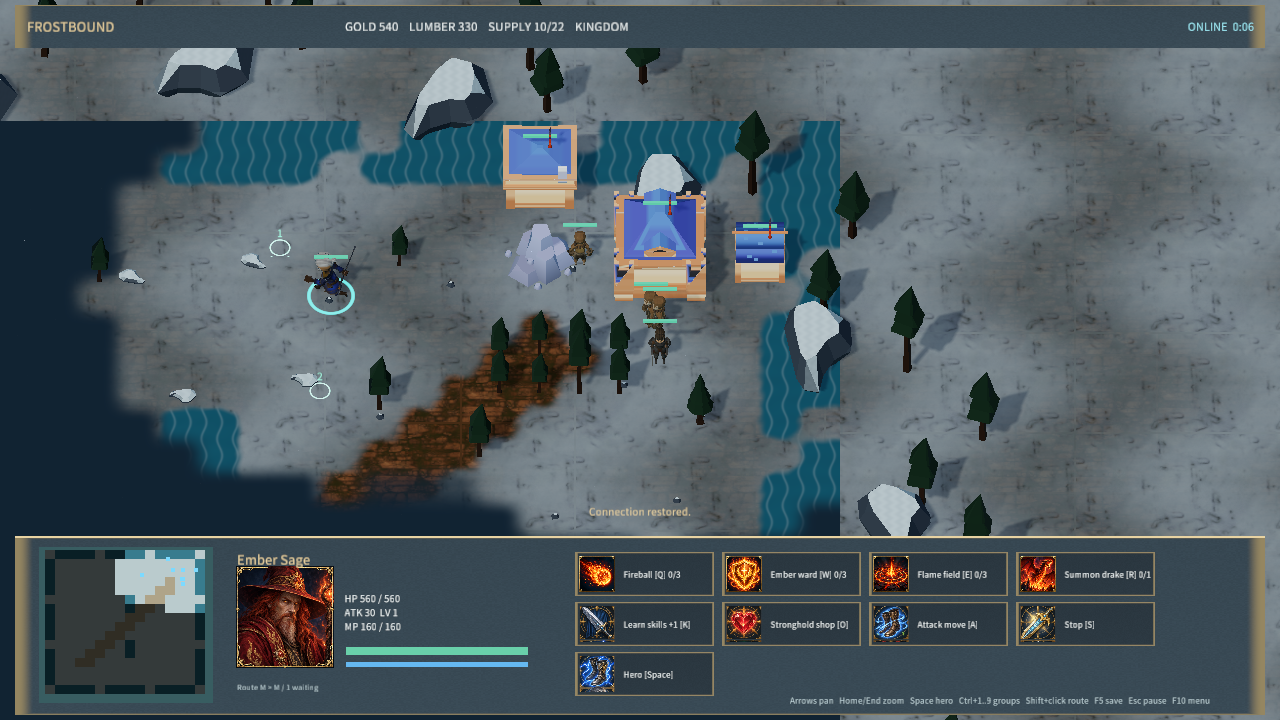
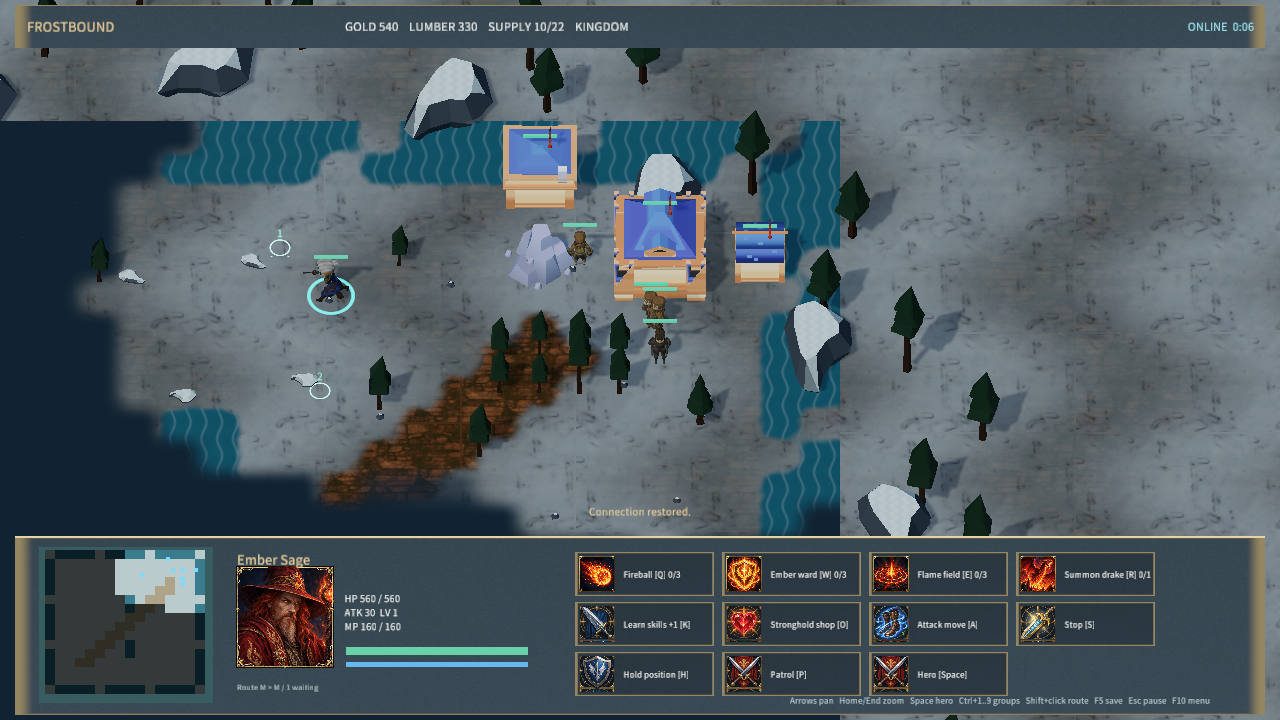
feat(frostbound): add hold position and persistent patrol orders

diff --git a/samples/frostbound-realms/game/client.js b/samples/frostbound-realms/game/client.js
@@ -120,7 +120,7 @@ var FrostClient=(()=>{
     const u=state.units.find(u=>selected.includes(u.id)&&u.team===team&&u.hp>0);if(!u)return;
     if(u.built<1){add('Cancel / 75% refund',()=>order({type:'cancelBuild'}));return;}
     if(u.kind==='worker'){
-      for(const [kind,key] of (state.mode==='td'?[['tower','T'],['frosttower','G'],['flametower','H']]:[['hall','C'],['farm','F'],['barracks','B'],['tower','T'],['altar','L'],['workshop','J']]))add(FrostVisual.name(state,{kind,team})+' ['+key+']',()=>{armed={type:'build',kind};message('Choose a site within 15 units of the worker');},'Cost: '+S.types[kind].gold+' gold / '+(state.mode==='td'?0:S.types[kind].wood)+' lumber',FrostVisual.model(state,{kind,team}).asset.factionBuilding?'building:'+FrostVisual.model(state,{kind,team}).key:'tower');
+      for(const [kind,key] of (state.mode==='td'?[['tower','T'],['frosttower','G'],['flametower','Y']]:[['hall','C'],['farm','F'],['barracks','B'],['tower','T'],['altar','L'],['workshop','J']]))add(FrostVisual.name(state,{kind,team})+' ['+key+']',()=>{armed={type:'build',kind};message('Choose a site within 15 units of the worker');},'Cost: '+S.types[kind].gold+' gold / '+(state.mode==='td'?0:S.types[kind].wood)+' lumber',FrostVisual.model(state,{kind,team}).asset.factionBuilding?'building:'+FrostVisual.model(state,{kind,team}).key:'tower');
       add('Repair / assist [R]',()=>{armed={type:'repair'};message('Choose a friendly building to repair or finish');});
     }else if(S.types[u.kind].model==='tower'){add('Upgrade '+(100*u.level),()=>order({type:'towerUpgrade'}));if(state.mode==='td')add('Sell / 65%',()=>order({type:'sell'}));
     }else if(u.kind==='hero'){
@@ -131,7 +131,7 @@ var FrostClient=(()=>{
       for(const kind of S.trainable(state,u))add(S.types[kind].label+' '+S.types[kind].gold,()=>order({type:'train',kind}));if(u.kind==='barracks')add('Weapons +6 [U]',()=>order({type:'upgrade'}));if(u.kind==='hall')add('Advance tier [U]',()=>order({type:'tech'}));
     }
     if(S.trainable(state,u).length){add('Rally point',()=>armed={type:'rally'});if(u.queue.length)add('Cancel last / refund',()=>order({type:'cancelTrain',index:u.queue.length-1}));}
-    add('Attack move [A]',()=>armed={type:'attackMove'},'Move and engage enemies. Hold Shift when choosing a target to append a waypoint.');add('Stop [S]',()=>order({type:'stop'}));add('Hero [Space]',selectHero);
+    add('Attack move [A]',()=>armed={type:'attackMove'},'Move and engage enemies. Hold Shift when choosing a target to append a waypoint.');add('Stop [S]',()=>{armed=null;order({type:'stop'});});if(u.speed){add('Hold position [H]',()=>{armed=null;order({type:'hold'});},'Stay here and attack only enemies in range. Replaces the current route.','shield');add('Patrol [P]',()=>armed={type:'patrol'},'Choose the other end of a repeating patrol. Engage enemies, then continue the route.','attack');}add('Hero [Space]',selectHero);
   }
   function controls(input,dt){
     const press=k=>input.pressedKeys.includes(k),held=k=>input.keys.includes(k),p=screenPointer(input),w=worldPointer(input);updateActions();
@@ -159,10 +159,10 @@ var FrostClient=(()=>{
         if(press('PageUp'))editMap.waves=S.clamp(editMap.waves+1,3,30);if(press('PageDown'))editMap.waves=S.clamp(editMap.waves-1,3,30);if(press('KeyN')&&![2,4].includes(editorPage))slot=slot%3+1;
       }else if(!paused){
         if(press('F5')){if(online)message('Network matches are saved on the server during reconnect');else persist('quicksave',state);}
-        if(press('Space'))selectHero();if(press('KeyA'))armed={type:'attackMove'};if(press('KeyS'))order({type:'stop'});
+        if(press('Space'))selectHero();if(press('KeyA'))armed={type:'attackMove'};if(press('KeyS')){armed=null;order({type:'stop'});}if(press('KeyH')){armed=null;order({type:'hold'});}if(press('KeyP'))armed={type:'patrol'};
         const u=state.units.find(u=>selected.includes(u.id)&&u.team===team);
         if(u?.kind==='hero'){if(press('KeyK'))heroPanel=heroPanel==='learn'?'skills':'learn';if(press('KeyO'))heroPanel=heroPanel==='shop'?'skills':'shop';for(const [i,k] of ['KeyQ','KeyW','KeyE','KeyR'].entries())if(press(k)){if(held('ShiftLeft')||held('ShiftRight')||heroPanel==='learn')order({type:'learn',slot:i});else if(S.unitType(u).spells[i].range===0)order({type:'spell',slot:i,x:u.x,z:u.z});else armed={type:'spell',slot:i};}}
-        if(u?.kind==='worker')for(const [k,kind] of [['KeyC','hall'],['KeyF','farm'],['KeyB','barracks'],['KeyT','tower'],['KeyL','altar'],['KeyG','frosttower'],['KeyH','flametower'],['KeyJ','workshop']])if(press(k))armed={type:'build',kind};
+        if(u?.kind==='worker')for(const [k,kind] of [['KeyC','hall'],['KeyF','farm'],['KeyB','barracks'],['KeyT','tower'],['KeyL','altar'],['KeyG','frosttower'],['KeyY','flametower'],['KeyJ','workshop']])if(press(k))armed={type:'build',kind};
         if(u?.kind==='worker'&&press('KeyR'))armed={type:'repair'};
         if(press('KeyU'))order({type:u?.kind==='hall'?'tech':'upgrade'});
         for(let i=1;i<=9;i++)if(press('Digit'+i)){if(held('ControlLeft'))groups[i]=[...selected];else selected=[...(groups[i]||[])];}
@@ -227,9 +227,9 @@ var FrostClient=(()=>{
     const markers=editing?map.triggers:state.loot||[];for(let i=0;i<32;i++){const m=markers[i];transform('Objective '+i,m&&(editing||state.explored[team]?.[S.index(m.x,m.z)])?[m.x,S.elevation(map,m.x,m.z)+.4+Math.sin(time*2)*.15,m.z]:hidden,[.8,.8,.8],[0,Math.sin(time/2),0,Math.cos(time/2)]);}
     label('Objective text',editing?'[V] '+['Terrain & objects','Units — click ground to place','Triggers / Setup, Conditions, Actions / N name or text / F8 Supply Road','Players & data','Regions / click to select, place, resize or move / N name','Elevation / choose height then ramp direction / F9 Highland Pass'][editorPage]:state.mode==='rpg'?'QUEST '+(state.quest.stage+1)+'/4: '+(S.questNames[state.quest.stage]||'Covenant restored')+(state.quest.stage===0?' ('+state.quest.scouts+'/3)':''):state.announcements?.[team]||state.announcement||'');show('Objective text',world);
     const t=state.teams[team],pop=S.population(state,team),u=state.units.find(u=>selected.includes(u.id));
-    const route=playing&&u?.team===team&&['move','attackMove'].includes(u.order?.type)?[u.order,...(u.waypoints||[])]:[];
+    const route=playing&&u?.team===team?(u.order?.type==='patrol'?[u.order,{type:'patrol',x:u.order.fromX,z:u.order.fromZ}]:['move','attackMove'].includes(u.order?.type)?[u.order,...(u.waypoints||[])]:[]):[];
     for(let i=0;i<9;i++){
-      const p=route[i],color=p?.type==='attackMove'?[1,.4,.25,1]:[.4,1,.8,1];transform('Waypoint '+i,p?[p.x,S.elevation(map,p.x,p.z)+.07,p.z]:hidden,[1.1,.015,1.1]);if(!p)show('Waypoint label '+i,false);
+      const p=route[i],color=p?.type==='patrol'?[.55,.75,1,1]:p?.type==='attackMove'?[1,.4,.25,1]:[.4,1,.8,1];transform('Waypoint '+i,p?[p.x,S.elevation(map,p.x,p.z)+.07,p.z]:hidden,[1.1,.015,1.1]);if(!p)show('Waypoint label '+i,false);
       if(p){set('Waypoint '+i,'MaterialPropertyBlock',{override_base_color:true,base_color:color});const screen=screenWorld({kind:u.kind,team:u.team,...p,y:S.elevation(map,p.x,p.z)},input),r=authored['Waypoint label '+i].RectTransform;show('Waypoint label '+i,Math.abs(screen.x)<626&&screen.y>-290&&screen.y<165);set('Waypoint label '+i,'RectTransform',{...r,anchored_position:[screen.x,screen.y-16]});label('Waypoint label '+i,String(i+1),color);}
     }
 
@@ -238,7 +238,7 @@ var FrostClient=(()=>{
     transform('Rally marker',world&&u?.rally?[u.rally.x,S.elevation(map,u.rally.x,u.rally.z)+.2,u.rally.z]:hidden,[2,2,2]);
     label('Selection title',editing?(editorPage===2?(map.triggers[triggerIndex]?.name||'TRIGGER EDITOR'):editorPage===4?(map.regions[regionIndex]?.name||'REGION EDITOR'):'WORLD EDITOR'):selected.length>1?selected.length+' units selected':u?FrostVisual.name(state,u):'Your command awaits');
     label('Selection stats',editing?(editorPage===5?'Height '+heightBrush+' / '+(heightBrush*2)+' world units\n'+(rampBrush?'Ramp '+['','East','West','South','North'][rampBrush]:'Level ground')+'\nF9 Highland Pass / F7 play':editorPage===2&&map.triggers[triggerIndex]?map.triggers[triggerIndex].conditions.length+' conditions / '+map.triggers[triggerIndex].logic+'\n'+map.triggers[triggerIndex].actions.length+' actions / '+map.triggers[triggerIndex].limit+' runs\n'+(map.triggers[triggerIndex].after<0?'No prerequisite':'After #'+(map.triggers[triggerIndex].after+1)):editorPage===4&&map.regions[regionIndex]?'Width '+map.regions[regionIndex].width+' / Height '+map.regions[regionIndex].height+'\nCenter '+map.regions[regionIndex].x+', '+map.regions[regionIndex].z:'Gold '+map.startingGold+' [+ / -]\nWaves '+map.waves+' [PgUp / PgDn]\nInterval '+map.waveInterval+'s [[ / ]]'):u?'HP '+Math.ceil(u.hp)+' / '+Math.ceil(u.maxHp)+'\nATK '+Math.round(u.damage)+'  '+(u.kind==='hero'?'LV '+u.level+'\nMP '+Math.floor(u.mana)+' / '+(150+u.level*10):S.types[u.kind].attack+' / '+S.types[u.kind].armor+'\n'+(S.types[u.kind].flying?'Flying / ':'' )+(S.types[u.kind].antiAir?'Ground + air':'Ground only')):'Left click / drag to select\nRight click to move or attack\nWorkers gather from mines and trees');
-    label('Selection queue',editing?'Regions '+map.regions.length+' / Triggers '+map.triggers.length+' / Page '+(editorPage+1)+'/6\nUndo Ctrl+Z / Save F5 / Play F7':route.length?'Route '+route.map(p=>p.type==='attackMove'?'A':'M').join(' > ')+' / '+(route.length-1)+' waiting':u?.built<1?'Building '+Math.floor(u.built*100)+'% / '+({work:'Workers required',inside:'Worker stationed',growth:'Living growth',summon:'Summoning',legacy:'Construction'}[u.construction?.style]||'Construction'):u?.kind==='hall'?'Stronghold tier '+t.tier+(t.research>0?' / upgrading '+Math.ceil(t.research)+'s':''):u?.queue.length?'Training: '+u.queue.map(q=>q.kind+' '+Math.ceil(q.left)+'s').join(', '):u?.kind==='hero'?'XP '+u.xp+'/'+(u.level*90)+' / Skill points '+u.skillPoints:u?.inventory.length?'Items: '+u.inventory.map(i=>S.items[i].name).join(', '):u?.built<1?'Building '+Math.floor(u.built*100)+'%':'');
+    label('Selection queue',editing?'Regions '+map.regions.length+' / Triggers '+map.triggers.length+' / Page '+(editorPage+1)+'/6\nUndo Ctrl+Z / Save F5 / Play F7':u?.order?.type==='hold'?'Holding position / attacks in range':u?.order?.type==='patrol'?'Patrol / repeats between 1 and 2':route.length?'Route '+route.map(p=>p.type==='attackMove'?'A':'M').join(' > ')+' / '+(route.length-1)+' waiting':u?.built<1?'Building '+Math.floor(u.built*100)+'% / '+({work:'Workers required',inside:'Worker stationed',growth:'Living growth',summon:'Summoning',legacy:'Construction'}[u.construction?.style]||'Construction'):u?.kind==='hall'?'Stronghold tier '+t.tier+(t.research>0?' / upgrading '+Math.ceil(t.research)+'s':''):u?.queue.length?'Training: '+u.queue.map(q=>q.kind+' '+Math.ceil(q.left)+'s').join(', '):u?.kind==='hero'?'XP '+u.xp+'/'+(u.level*90)+' / Skill points '+u.skillPoints:u?.inventory.length?'Items: '+u.inventory.map(i=>S.items[i].name).join(', '):u?.built<1?'Building '+Math.floor(u.built*100)+'%':'');
     label('Controls',editing?'Paint LMB   /   F5 save   F6 load   F7 test   /   arrows pan   Home/End zoom':'Arrows pan   Home/End zoom   Space hero   Ctrl+1..9 groups   Shift+click route   F5 save   Esc pause   F10 menu');
     const icons=['frost','heal','blink','blizzard','blade','heart','boots','edge','storm','charm','attack','shield'];
     const pointer=screenPointer(input);let hint='';

diff --git a/samples/frostbound-realms/game/simulation.js b/samples/frostbound-realms/game/simulation.js
@@ -254,19 +254,19 @@ var Frost = (() => {
     if(s.winner!==null||!c||![0,1].includes(team))return 'Match is finished';
     if(c.append!==undefined&&typeof c.append!=='boolean'||c.append&&!['move','attackMove'].includes(c.type))return 'Only movement orders can be queued';
     const own=s.units.filter(u=>u.team===team&&u.hp>0&&!u.inside&&Array.isArray(c.ids)&&c.ids.slice(0,40).includes(u.id)),u=own[0],point=Number.isFinite(c.x)&&Number.isFinite(c.z)&&Math.abs(c.x)<=30&&Math.abs(c.z)<=30;
-    if(['move','attackMove','attack','gather','stop'].includes(c.type)){
-      if(['move','attackMove'].includes(c.type)&&!point)return 'Invalid destination';
+    if(['move','attackMove','patrol','hold','attack','gather','stop'].includes(c.type)){
+      if(['move','attackMove','patrol'].includes(c.type)&&!point)return 'Invalid destination';
       const target=s.units.find(v=>v.id===c.target&&v.hp>0);if(c.type==='attack'&&(!target||target.team===team||!isVisible(s,team,target)))return 'Target is not visible';
       if(c.type==='attack'&&!own.some(v=>canAttack(v,target)))return 'Selected units cannot attack this target';
       if(c.type==='gather'&&(!Number.isInteger(c.resource)||!s.resources[c.resource]||s.resources[c.resource].kind==='camp'))return 'Select a resource';
-      const moving=['move','attackMove'].includes(c.type),members=moving?own.filter(v=>v.speed&&v.built===1):own;
+      const moving=['move','attackMove','patrol'].includes(c.type),members=moving||c.type==='hold'?own.filter(v=>v.speed&&v.built===1):own;
       if(c.append&&members.some(v=>v.order&&!['move','attackMove'].includes(v.order.type)))return 'Issue a move before adding waypoints';
       if(c.append&&members.some(v=>(v.waypoints?.length||0)>=8))return 'Waypoint queue is full (8 waiting)';
       const slots=moving?formation(s,members,c.x,c.z,c.append):null;
       if(moving&&!slots)return 'No reachable space for this formation';
       members.forEach(v=>{
         if(c.type==='attack'&&!canAttack(v,target))return;
-        const next=c.type==='stop'?null:{type:c.type,x:slots?.get(v.id)?.[0]??0,z:slots?.get(v.id)?.[1]??0,...(c.type==='attack'?{target:c.target}:c.type==='gather'?{resource:c.resource}:{})};
+        const next=c.type==='stop'?null:{type:c.type,x:slots?.get(v.id)?.[0]??0,z:slots?.get(v.id)?.[1]??0,...(c.type==='attack'?{target:c.target}:c.type==='gather'?{resource:c.resource}:c.type==='patrol'?{fromX:clamp(v.x,-30,30),fromZ:clamp(v.z,-30,30)}:{})};
         if(c.append&&v.order){(v.waypoints??=[]).push(next);return;}
         delete v.workResume;v.path=[];v.pathAt=-100;v.waypoints=[];v.order=next;
       });return null;
@@ -357,6 +357,7 @@ var Frost = (() => {
   function segmentDistance(x,z,a,b){const dx=b[0]-a[0],dz=b[1]-a[1],t=clamp(((x-a[0])*dx+(z-a[1])*dz)/(dx*dx+dz*dz),0,1);return Math.hypot(x-a[0]-dx*t,z-a[1]-dz*t);}
   function equip(u,i){const item=items[i];u.inventory.push(i);u.damage+=item.damage||0;u.maxHp+=item.hp||0;u.hp=Math.min(u.maxHp,u.hp+(item.hp||0));u.speed+=item.speed||0;}
   function experience(h,xp){h.xp+=xp;while(h.xp>=h.level*90&&h.level<10){h.xp-=h.level*90;h.level++;h.skillPoints++;h.maxHp+=90;h.hp=Math.min(h.maxHp,h.hp+150);h.damage+=6;}}
+  function attackInRange(s,u,v){return Math.hypot(distance(u,v),unitHeight(s,u)-unitHeight(s,v))<=unitType(u).range+(types[v.kind].radius||.3)&&attackClear(s,u,v);}
   function damage(s,a,b,value){
     if(b.hp<=0||b.inside)return;if(b.avatar>0)value*=.6;const absorbed=Math.min(b.shield||0,value);b.shield=Math.max(0,(b.shield||0)-absorbed);value-=absorbed;if(value<=0)return;s.events.push({type:'damage',x:b.x,z:b.z,y:unitHeight(s,b),amount:Math.ceil(Math.min(b.hp,value)),team:b.team});b.hp-=value;
     if(types[a.kind].lifesteal)a.hp=Math.min(a.maxHp,a.hp+value*types[a.kind].lifesteal);
@@ -417,14 +418,14 @@ var Frost = (() => {
       if(u.td){const p=u.route[u.waypoint];if(!p){u.hp=0;s.lives-=u.tdBoss?5:1;if(s.lives<=0)s.winner=1;continue;}if(move(s,u,p[0],p[1],u.waypoint===u.route.length-1?4.5:1.3))u.waypoint++;continue;}
       let target=u.order?.type==='attack'?s.units.find(v=>v.id===u.order.target&&v.hp>0&&canAttack(u,v)&&isVisible(s,u.team,v)):null;
       if(u.order?.type==='attack'&&!target)u.order=null;
-      if(u.order?.type!=='move'&&u.damage>0&&!target){let best=Infinity;for(const v of s.units){if(v.team===u.team||v.hp<=0||!canAttack(u,v)||(u.team>=0&&!isVisible(s,u.team,v)))continue;const d=distance(u,v);if(d<best&&d<Math.max(unitType(u).range,8)){target=v;best=d;}}}
-      if(target){const range=unitType(u).range+(types[target.kind].radius||.3);if(Math.hypot(distance(u,target),unitHeight(s,u)-unitHeight(s,target))<=range&&attackClear(s,u,target)){if(u.cd<=0){damage(s,u,target,weaponDamage(u,target,u.damage*(u.avatar>0?1.6:1)+(s.teams[u.team]?.upgrade||0)*6));if(types[u.kind].splash)for(const v of s.units)if(v.id!==target.id&&v.team!==u.team&&v.hp>0&&canAttack(u,v)&&distance(v,target)<types[u.kind].splash)damage(s,u,v,weaponDamage(u,v,u.damage*.6));u.cd=unitType(u).cooldown||1;s.events.push({type:'hit',x:target.x,z:target.z,fromX:u.x,fromZ:u.z,fromY:unitHeight(s,u)+1.6,toY:unitHeight(s,target)+1.6,team:u.team,ranged:range>4});}}else move(s,u,target.x,target.z,range*.8);}
-      else if(u.order&&['move','attackMove'].includes(u.order.type)){
+      if(u.order?.type!=='move'&&u.damage>0&&!target){let best=Infinity;for(const v of s.units){if(v.team===u.team||v.hp<=0||!canAttack(u,v)||(u.team>=0&&!isVisible(s,u.team,v))||u.order?.type==='hold'&&!attackInRange(s,u,v))continue;const d=distance(u,v);if(d<best&&(u.order?.type==='hold'||d<Math.max(unitType(u).range,8))){target=v;best=d;}}}
+      if(target){const range=unitType(u).range+(types[target.kind].radius||.3);if(attackInRange(s,u,target)){if(u.cd<=0){damage(s,u,target,weaponDamage(u,target,u.damage*(u.avatar>0?1.6:1)+(s.teams[u.team]?.upgrade||0)*6));if(types[u.kind].splash)for(const v of s.units)if(v.id!==target.id&&v.team!==u.team&&v.hp>0&&canAttack(u,v)&&distance(v,target)<types[u.kind].splash)damage(s,u,v,weaponDamage(u,v,u.damage*.6));u.cd=unitType(u).cooldown||1;s.events.push({type:'hit',x:target.x,z:target.z,fromX:u.x,fromZ:u.z,fromY:unitHeight(s,u)+1.6,toY:unitHeight(s,target)+1.6,team:u.team,ranged:range>4});}}else if(u.order?.type!=='hold')move(s,u,target.x,target.z,range*.8);}
+      else if(u.order&&['move','attackMove','patrol'].includes(u.order.type)){
         if(!types[u.kind].flying&&solid(s,u.order.x,u.order.z,u.id,u.team)){const p=formation(s,[u],u.order.x,u.order.z)?.get(u.id);if(p){u.order.x=p[0];u.order.z=p[1];u.path=[];u.pathAt=-100;}}
-        if(move(s,u,u.order.x,u.order.z,.12)){u.order=u.waypoints?.shift()||null;u.path=[];u.pathAt=-100;}
+        if(move(s,u,u.order.x,u.order.z,.12)){if(u.order.type==='patrol'){const o=u.order;[o.x,o.z,o.fromX,o.fromZ]=[o.fromX,o.fromZ,o.x,o.z];}else u.order=u.waypoints?.shift()||null;u.path=[];u.pathAt=-100;}
       }
-      else if(u.route){const p=u.route[u.waypoint];if(p&&move(s,u,p[0],p[1],1.5))u.waypoint++;}
-      else if(u.home&&distance(u,{x:u.home[0],z:u.home[1]})>3)move(s,u,...u.home,2);
+      else if(!u.order&&u.route){const p=u.route[u.waypoint];if(p&&move(s,u,p[0],p[1],1.5))u.waypoint++;}
+      else if(!u.order&&u.home&&distance(u,{x:u.home[0],z:u.home[1]})>3)move(s,u,...u.home,2);
       if(u.kind==='hero'&&s.units.some(v=>v.team===u.team&&v.kind==='hall'&&v.hp>0&&v.built===1&&distance(u,v)<8))u.hp=Math.min(u.maxHp,u.hp+DT*12);
     }
     for(const zone of s.zones){zone.left-=DT;zone.pulse-=DT;if(zone.pulse<=0){zone.pulse+=1;for(const v of s.units)if(v.team!==zone.team&&v.hp>0&&distance(v,zone)<=zone.radius){damage(s,{kind:'hero',heroClass:zone.heroClass,team:zone.team},v,zone.damage);if(zone.slow)v.slow=zone.slow;}s.events.push({type:'spell',x:zone.x,z:zone.z,slot:zone.slot,heroClass:zone.heroClass,team:zone.team});}}s.zones=s.zones.filter(z=>z.left>0);
@@ -480,6 +481,7 @@ var Frost = (() => {
     if(s.teams.some(t=>!t||![t.gold,t.wood,t.faction,t.upgrade,t.kills].every(finite)||!Number.isInteger(t.faction)||t.faction<0||t.faction>3))throw Error('Invalid saved teams');
     const ids=new Set();for(const u of s.units){
       if(!u||!Object.hasOwn(types,u.kind)||![-1,0,1].includes(u.team)||!Number.isSafeInteger(u.id)||u.id<1||u.id>s.serial||ids.has(u.id)||![u.x,u.z,u.hp,u.maxHp,u.damage,u.speed,u.cd,u.built,u.level,u.xp,u.mana,u.cargo,u.respawn,u.pathAt].every(finite)||u.maxHp<=0||!Array.isArray(u.path)||u.path.length>1024||!u.path.every(point)||!Array.isArray(u.spell)||u.spell.length!==4||!u.spell.every(finite)||!Array.isArray(u.queue)||u.queue.length>3||u.queue.some(q=>!q||!Object.hasOwn(types,q.kind)||!finite(q.left))||!Array.isArray(u.inventory)||u.inventory.length>6||u.inventory.some(i=>!Number.isInteger(i)||!items[i])||u.route!==undefined&&(!Array.isArray(u.route)||!u.route.every(point))||u.home!==undefined&&!point(u.home))throw Error('Invalid saved units');ids.add(u.id);
+      if(u.order?.type==='patrol'&&(!types[u.kind].speed||![u.order.x,u.order.z,u.order.fromX,u.order.fromZ].every(v=>Number.isFinite(v)&&Math.abs(v)<=30))||u.order?.type==='hold'&&!types[u.kind].speed)throw Error('Invalid saved patrol or hold order');
       if(u.waypoints===undefined)u.waypoints=[];
       const waypoint=p=>p&&['move','attackMove'].includes(p.type)&&[p.x,p.z].every(v=>Number.isFinite(v)&&Math.abs(v)<=30);
       if(!Array.isArray(u.waypoints)||u.waypoints.length>8||!u.waypoints.every(waypoint)||u.waypoints.length&&(!types[u.kind].speed||u.hp<=0||!waypoint(u.order)))throw Error('Invalid saved waypoint queue');

diff --git a/samples/frostbound-realms/README.md b/samples/frostbound-realms/README.md
@@ -36,11 +36,12 @@ Skirmish 建筑由工人到场启动：Kingdom 工人持续施工，可多工协
 | 选择 / 框选 / 追加选择 | 左键 / 拖动左键 / Shift |
 | 移动 / 攻击 / 采集 | 右键点击地面、敌人或资源 |
 | 攻击移动 / 停止 | A 后左键 / S |
+| 驻守 / 巡逻 | H / P 后左键指定另一端 |
 | 选中并居中英雄 | Space |
 | 相机平移 / 缩放 | 方向键 / Home、End |
 | 建造 | 选工人，底部按钮；C 扩张据点、F 农舍、B 兵营、T 塔、L 祭坛、J 攻城工坊，随后左键选址 |
 | 施工 / 维修 | 选工人右键己方工地或受损建筑，或 R 后左键；选工地点击 Cancel 返还 75% |
-| 塔防 | 工人 T 守卫塔、G 冰塔、H 火塔；选塔点击升级或出售 |
+| 塔防 | 工人 T 守卫塔、G 冰塔、Y 火塔；选塔点击升级或出售 |
 | 出兵 / 研究 | 选建筑后点底部按钮；兵营 U 研究 |
 | 集结 / 取消生产 | 选生产建筑后右键地面或点 Rally；Cancel last 取消队尾并全额退还、释放预留人口 |
 | 选择英雄 | 主菜单或联机大厅 H / 英雄按钮 |
@@ -63,6 +64,8 @@ Skirmish 建筑由工人到场启动：Kingdom 工人持续施工，可多工协
 框选或控制组最多选择 40 个单位。右键移动与 A 攻击移动按行军方向和兵种射程分配位置，近战在前、远程在后，空中与地面分别编队；单个单位到达实际点击位置。目的地按可达地形、建筑和待命友军调整，地形无法到达时选择本侧空位，整组无法分配时保留原命令。行军途中保存/加载保留各单位目标。寻路只使用当前可见的敌方建筑，接近后发现目标被占用时重新选择附近落点。当前编队用于玩家移动/攻击移动命令；行军动态避让、近战包围和建造/采集等通用指令队列仍待完善。
 
 移动和攻击移动支持 Shift 追加：先下达普通移动，再按住左/右 Shift 右键点击地面追加移动；A 后按住 Shift 左键点击追加攻击移动。每个单位最多 8 个等待落点，整组中任一队列已满则整组追加失败。绿色编号表示移动、橙色表示攻击移动，界面显示首个选中单位的路线及等待数。普通移动/攻击移动、攻击、采集、施工、停止、闪现和死亡会清除后续路线；攻击移动遇敌后会继续原路线。正在采集/施工等非移动工作时，需先发普通移动再追加。Shift 右键直接点中敌人或资源仍执行攻击/采集。旧存档补空队列，新存档与服务器重连保留路线；重连保留原镜头、缩放和有效选择，并显示连接已恢复。
+
+驻守 H 取消当前路线并原地攻击射程内、未被地形遮挡的敌人，不会追击；S 停止后恢复普通自动迎敌。巡逻 P 后左键指定另一端，各单位从当前位置与编队落点之间往返，遇敌战斗后继续巡逻。蓝色编号显示首个选中单位的两端位置。驻守和巡逻替换已有移动队列，巡逻中需先下达普通移动再追加 Shift 路线；单机存档和联机重连保留巡逻端点。
 
 ## 地图事件
 

diff --git a/docs/designs/frostbound-realms/README.md b/docs/designs/frostbound-realms/README.md
@@ -4,6 +4,12 @@
 
 ## 本次范围
 
+本阶段增加 H 驻守、P 巡逻和对应按钮：驻守只攻击射程及视线内敌人，巡逻在原地与指定编队落点间反复往返，遇敌后继续路线；S 解除驻守。两种命令清除旧移动队列，巡逻的两端显示蓝色编号，存档及重连保留端点。塔防火塔快捷键为 Y。复用已有资产与场景标记，仍为 1771 实体、79 模型。
+
+Node 全规则/TCP 回归与实际 QuickJS 3/3 通过。[原生驻守巡逻验收](native-patrol-qa.json) 覆盖驻守不移动、巡逻战斗、往返、存档恢复及停止；[双客户端验收](native-network-qa.json) 通过驻守、巡逻和第二次断线后的端点恢复。原生 Agent 输入不代表物理键鼠验收。
+
+![巡逻战斗](patrol-route.png)
+
 本阶段增加 Shift 移动/攻击移动队列：每单位最多8个等待落点，整组上限检查，未来编队按前一个落点朝向分配；普通改令和停止清空后续路线。工作、闪现、死亡和触发器改令同步清理队列。界面增加首个选中单位的编号路线，绿色移动/橙色攻击移动，越出战场的屏幕编号隐藏。地图场景新增18个标记/文字实体，保留既有实体编号；资产仍为79模型，1771场景实体。
 
 规则验证覆盖顺序到达、攻击移动遇敌后续行军、混合编队存档回放、上限原子拒绝、改令/工作/闪现/死亡清理、旧档迁移、坏档拒绝及对手队列保密。Node全规则/TCP与真实QuickJS 3/3通过，服务器队列和主机重连有专门断言。[原生路线验收](native-waypoints-qa.json) 验证左右Shift、编号显示、保存/加载后继续完成和停止清空；[原生联机验收](native-network-qa.json) 检查协议5、两个客户端和重连。建造/采集等通用指令队列仍待实现。
@@ -16,7 +22,7 @@
 
 ![编队到达](formation-arrival.png)
 
[2 lines of base64/hex data omitted]
 
 本阶段接入四阵营 32 个建筑模型与 5 个骨骼动画怪物，模型目录共 79 项。建筑由 Kenney Castle/Nature/Graveyard 的 46 个模块组合，包含各阵营三级主基地与五类功能建筑；怪物来自 Quaternius Ultimate Monsters。下载原件、CC0 许可、源地址、配方和派生 SHA-256 分别留存于 faction-sources.json、monster-sources.json。32 个建造图标由真实建筑的原生渲染生成，建造菜单、预览、头像和升级外观保持对应。
 

diff --git a/docs/designs/frostbound-realms/worklog.md b/docs/designs/frostbound-realms/worklog.md
@@ -72,3 +72,10 @@ Player包276文件、1753实体、79模型，哈希60b19e1f9ca44dc5680b104cab491
 验证：Node全规则/TCP通过；新增test-frost-waypoints.mjs验证顺序行军、攻击移动遇敌后继续、混合队列存档回放、8点上限与原子拒绝、改令/工作/闪现/死亡清理、忙碌拒绝、旧档迁移/坏档拒绝和对手保密。真实QuickJS 3/3；独立只读审核无阻塞项。native-waypoints-qa.json通过左右Shift、3个编号标记、保存加载后完整路线和停止清空。native-network-qa.json以两个实际Release编辑器验证协议5、英雄选择、追加路线及断线重连队列保留，保留镜头/缩放/有效选择并显示连接已恢复。截图waypoint-route.png、multiplayer-route.png。
 
 最终Player包276文件、1771实体、79模型，内容哈希afcf02a82ec8d649b1daf2ecdfcb641800691e18254b78dd0638653a3fe0d557。逐文件及Release exe一致，30秒启动响应正常、零ERROR；复用已验证Release引擎，无Rust/C#源改动。当前队列限移动/攻击移动；建造/采集通用指令队列、动态避让/近战包围、战役、全部四族内容与美术、完整Dota、可视触发图、录像观战、重叠地形、大规模导航和5ms目标仍待完成。完整目标保持active，原生Agent及启动检查不等于物理输入/听感/跨机LAN验收。
+
+
+2026-09-28 驻守巡逻阶段：H 驻守只攻击射程内且视线可达的目标，不追击；P 选择另一端后按编队落点循环巡逻，遇敌交战后继续。驻守/巡逻替换旧路线，S 释放驻守，蓝色编号表示两端；TD 火塔快捷键 Y。存档验证端点及移动单位类型，对手不可见命令端点；协议仍为5，新命令在旧服务端明确拒绝。
+
+验证：Node 全规则/TCP 通过，新增 test-frost-patrol.mjs 覆盖驻守范围/建筑半径/地形遮挡、停止恢复迎敌、多单位往返、战斗续巡、坡道、准确存档回放、非法存档、队列替换和对手保密。实际 QuickJS frost_sample 3/3；独立只读审核无阻塞项。native-patrol-qa.json 通过原生驻守、战斗巡逻、往返、存档恢复、驻守打断与停止；native-network-qa.json 在两个原生 Release 客户端验证队列恢复、驻守、巡逻和再次断线后的端点恢复。截图 hold-position.png、patrol-route.png、multiplayer-patrol.png。
+
+最终 Player 包276文件、1771实体、79模型，内容哈希b3fb752371706adb5f94c350f9d89e7874a4c18274f9e49f8e92ffc5972031db。逐文件及Release exe一致，30秒启动窗口响应正常、零ERROR。复用现有资产和Release引擎，无Rust/C#改动。完整目标保持active；战役、全部四族内容与美术、完整Dota、通用工作队列、动态避让/包围、可视触发图、录像观战、重叠地形、大规模导航和5ms目标仍未完成。物理输入、听感及跨机LAN未验收。
